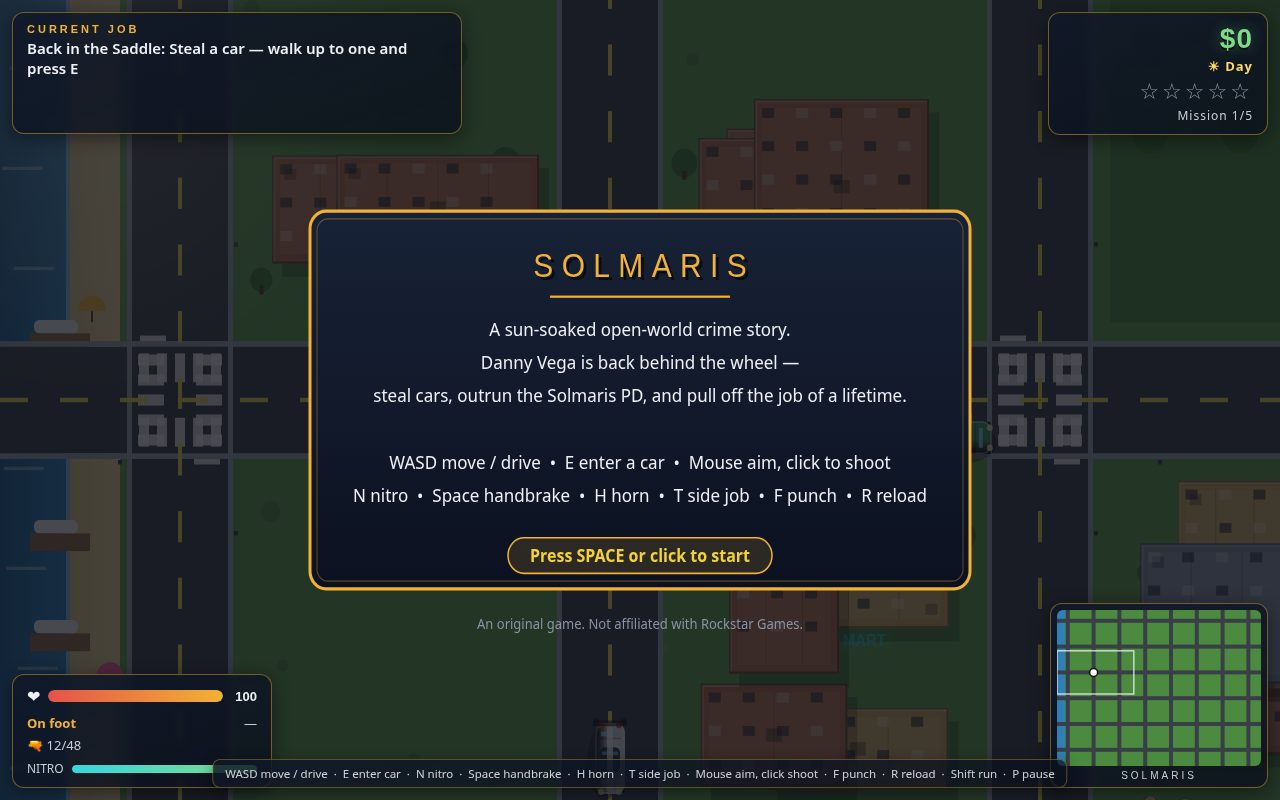
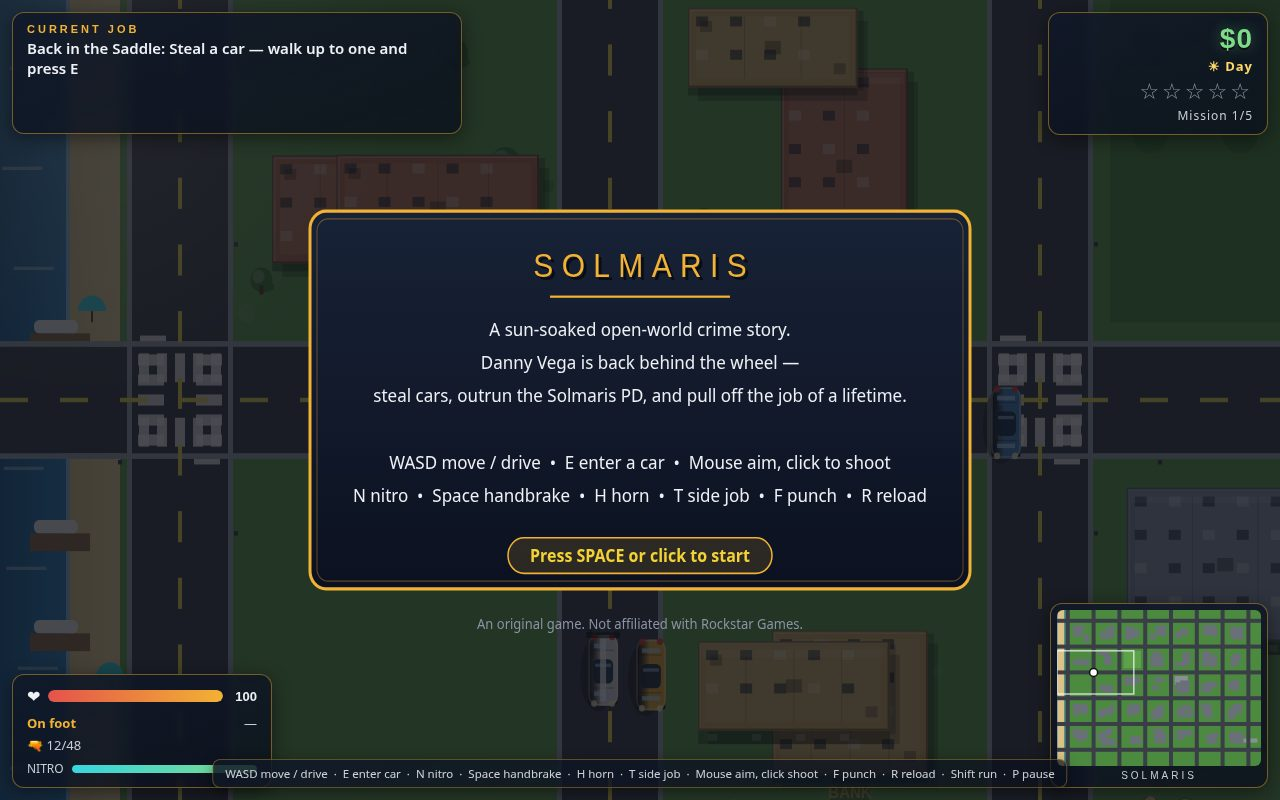
Solmaris v3: fix overlapping neon signs, pseudo-3D building walls, real minimap, sunset headlight beams, tree shadows

diff --git a/game/src/render.js b/game/src/render.js
@@ -172,12 +172,21 @@ export function createRenderer(canvas, hud) {
         c.fillRect(x, y - 2, 28, 4);
       }
     }
-    // Trees.
+    // Trees: a soft ground shadow, a shaded canopy, and a sunlit top-left
+    // arc, so they read as round bushes instead of flat green discs.
     for (const t of city.trees) {
       if (t.x < cam.x - 30 || t.x > cam.x + VIEW_W + 30 || t.y < cam.y - 30 || t.y > cam.y + VIEW_H + 30) continue;
+      c.fillStyle = 'rgba(0,0,0,0.25)';
+      c.beginPath();
+      c.ellipse(t.x + 3, t.y + t.r * 0.55, t.r * 0.9, t.r * 0.45, 0, 0, Math.PI * 2);
+      c.fill();
       c.fillStyle = night ? '#1e3a1a' : '#3f7a33';
       c.beginPath();
       c.arc(t.x, t.y, t.r, 0, Math.PI * 2);
+      c.fill();
+      c.fillStyle = night ? 'rgba(255,255,255,0.05)' : 'rgba(255,255,255,0.22)';
+      c.beginPath();
+      c.arc(t.x - t.r * 0.28, t.y - t.r * 0.28, t.r * 0.55, 0, Math.PI * 2);
       c.fill();
       c.fillStyle = '#5a3a22';
       c.fillRect(t.x - 2, t.y + t.r - 6, 4, 8);
@@ -189,6 +198,24 @@ export function createRenderer(canvas, hud) {
       if (b.x > cam.x + VIEW_W + 60 || b.x + b.w < cam.x - 60 || b.y > cam.y + VIEW_H + 60 || b.y + b.h < cam.y - 60) continue;
       c.fillStyle = `rgba(0,0,0,${sun.a})`;
       c.fillRect(b.x + sun.x, b.y + sun.y, b.w, b.h);
+      // v3 visual: a real wall face — the roof sits on a south wall and an
+      // east wall, so a block reads as a solid building with height instead
+      // of a flat card. Tall towers get a taller wall and lit windows on it.
+      const wallH = b.tall ? 12 : 7;
+      c.fillStyle = night ? 'rgba(8, 10, 16, 0.85)' : 'rgba(0,0,0,0.30)';
+      c.fillRect(b.x, b.y + b.h, b.w, wallH);
+      c.fillStyle = night ? 'rgba(8, 10, 16, 0.65)' : 'rgba(0,0,0,0.22)';
+      c.fillRect(b.x + b.w, b.y + 3, 6, b.h);
+      if (b.tall) {
+        const winN = Math.max(2, Math.floor(b.w / 44));
+        for (let i = 0; i < winN; i++) {
+          const litWin = ((i * 5 + Math.floor(b.lit * 97)) % 4) < 2;
+          c.fillStyle = night
+            ? (litWin ? 'rgba(255, 190, 90, 0.85)' : 'rgba(0,0,0,0.5)')
+            : 'rgba(255,255,255,0.18)';
+          c.fillRect(b.x + 10 + i * 44, b.y + b.h + 3, 9, 6);
+        }
+      }
       c.fillStyle = night ? '#3a3f47' : b.roof;
       c.fillRect(b.x, b.y, b.w, b.h);
       c.strokeStyle = 'rgba(0,0,0,0.35)';
@@ -239,16 +266,29 @@ export function createRenderer(canvas, hud) {
         c.fillRect(b.x + 4, b.y + 4, b.w - 8, 10);
       }
       // Neon sign on the street-facing edge, glowing at dusk and night.
+      // v3: it hangs below the wall face on a dark plate, so the letters
+      // stay readable against road and grass, and one sign in ten flickers
+      // after dark like a tired neon tube.
       if (b.sign) {
+        const flicker = night && b.detail > 0.9
+          ? 0.55 + 0.45 * Math.abs(Math.sin(state.time * 11 + b.x * 0.13))
+          : 1;
         const glow = (tod === 'night' || tod === 'sunset') ? 1 : 0.55;
+        const size = Math.min(15, b.w / (b.sign.text.length * 0.8));
+        const tw = b.sign.text.length * size * 0.42;
+        const cy = b.y + b.h + wallH + 13;
         c.save();
-        c.globalAlpha = glow;
+        c.globalAlpha = glow * flicker;
+        c.fillStyle = 'rgba(6, 10, 18, 0.55)';
+        c.beginPath();
+        c.roundRect(b.x + b.w / 2 - tw / 2 - 7, cy - size - 3, tw + 14, size + 8, 5);
+        c.fill();
         c.fillStyle = b.sign.color;
         c.shadowColor = b.sign.color;
         c.shadowBlur = 14;
-        c.font = `bold ${Math.min(15, b.w / (b.sign.text.length * 0.8))}px ` + FONT_DISPLAY;
+        c.font = `bold ${size}px ` + FONT_DISPLAY;
         c.textAlign = 'center';
-        c.fillText(b.sign.text, b.x + b.w / 2, b.y + b.h + 16);
+        c.fillText(b.sign.text, b.x + b.w / 2, cy);
         c.restore();
       }
     }
@@ -273,7 +313,7 @@ export function createRenderer(canvas, hud) {
     }
   }
 
-  function drawCar(c, car, night, time) {
+  function drawCar(c, car, night, time, tod) {
     // v2 visual: a patrol car's flashing light bar washes the street red/blue.
     if (car.carKind === 'police') {
       const red = Math.floor((time || 0) * 5) % 2 === 0;
@@ -375,10 +415,12 @@ export function createRenderer(canvas, hud) {
     c.arc(-CAR.length / 2 + 2, -CAR.width / 2 + 6, car.braking ? 4 : 3, 0, Math.PI * 2);
     c.arc(-CAR.length / 2 + 2, CAR.width / 2 - 6, car.braking ? 4 : 3, 0, Math.PI * 2);
     c.fill();
-    // Headlight beams at night: a gradient cone, not a flat triangle.
-    if (night) {
+    // Headlight beams: a gradient cone, not a flat triangle — full strength
+    // at night, and a shorter, dimmer cone at sunset when the sky is orange.
+    const beamA = night ? 0.40 : (tod === 'sunset' ? 0.20 : 0);
+    if (beamA > 0) {
       const beam = c.createLinearGradient(CAR.length / 2, 0, CAR.length / 2 + 110, 0);
-      beam.addColorStop(0, 'rgba(255, 240, 180, 0.40)');
+      beam.addColorStop(0, `rgba(255, 240, 180, ${beamA})`);
       beam.addColorStop(1, 'rgba(255, 240, 180, 0)');
       c.fillStyle = beam;
       c.beginPath();
@@ -756,6 +798,19 @@ export function createRenderer(canvas, hud) {
     m.fillRect(0, 0, w, h);
     m.fillStyle = state.night ? '#0f2f4a' : '#2f7fb8';
     m.fillRect(0, 0, 8, h);
+    // v3 visual: the minimap is a real map now — beach, park, plaza, runway
+    // and every building block, so it reads like the city at a glance.
+    m.fillStyle = state.night ? '#3a2f1a' : '#dcc288';
+    m.fillRect(8 * sx, 0, (state.city.beach.w - 8) * sx, h);
+    m.fillStyle = state.night ? '#23401c' : '#5da24a';
+    m.fillRect(state.city.park.x * sx, state.city.park.y * sy, state.city.park.w * sx, state.city.park.h * sy);
+    m.fillStyle = state.night ? '#2a2f38' : '#8a8f96';
+    m.fillRect(state.city.runway.x * sx, state.city.runway.y * sy, state.city.runway.w * sx, state.city.runway.h * sy);
+    m.fillRect(state.city.plaza.x * sx, state.city.plaza.y * sy, state.city.plaza.w * sx, state.city.plaza.h * sy);
+    m.fillStyle = state.night ? '#31363f' : '#6a7078';
+    for (const b of state.city.buildings) {
+      m.fillRect(b.x * sx, b.y * sy, Math.max(1.5, b.w * sx), Math.max(1.5, b.h * sy));
+    }
     m.fillStyle = '#3a3f47';
     for (const x of state.city.xs) m.fillRect(x * sx - 2, 0, 4, h);
     for (const y of state.city.ys) m.fillRect(0, y * sy - 2, w, 4);
@@ -916,8 +971,8 @@ export function createRenderer(canvas, hud) {
       drawSkidMarks(ctx, state);
       drawMarkers(ctx, state);
       drawPickups(ctx, state);
-      for (const car of state.trafficCars) drawCar(ctx, car, state.night, state.time);
-      for (const cop of state.police) drawCar(ctx, cop, state.night, state.time);
+      for (const car of state.trafficCars) drawCar(ctx, car, state.night, state.time, state.timeOfDay);
+      for (const cop of state.police) drawCar(ctx, cop, state.night, state.time, state.timeOfDay);
       for (const ped of state.peds) drawPed(ctx, ped, state.night);
       drawPlayer(ctx, state);
       drawTracers(ctx, state);

diff --git a/game/src/city.js b/game/src/city.js
@@ -58,13 +58,38 @@ export function buildCity(seed) {
           // v2 visual: a roof-detail seed (AC units, vents, parapet lines)
           // and, for a few big buildings, a neon sign for the street.
           detail: rng(),
-          sign: (w > 150 || tall) && rng() < 0.4 ? pick(rng, SIGNS) : null,
+          sign: (w > 150 || tall) && rng() < 0.3 ? pick(rng, SIGNS) : null,
         });
       }
       // A few trees on each block.
       const treeCount = 2 + Math.floor(rng() * 3);
       for (let t = 0; t < treeCount; t++) {
         trees.push({ x: bx0 + rng() * bw, y: by0 + rng() * bh, r: 9 + rng() * 7 });
+      }
+    }
+  }
+
+  // v3: neon signs must never collide — two neighbouring buildings in one
+  // block used to put PIZZA and 24H MART on top of each other in the night
+  // shot. Drop the later sign whenever two sign boxes would overlap on the
+  // same street line. The width estimate matches the renderer's font math
+  // (bold Arial Black, size capped at 15, ~0.42 em per glyph plus padding).
+  for (let i = 0; i < buildings.length; i++) {
+    const a = buildings[i];
+    if (!a.sign) continue;
+    const aSize = Math.min(15, a.w / (a.sign.text.length * 0.8));
+    const aHalf = (a.sign.text.length * aSize * 0.42) / 2 + 8;
+    const aY = a.y + a.h + (a.tall ? 12 : 7) + 13;
+    for (let j = i + 1; j < buildings.length; j++) {
+      const b = buildings[j];
+      if (!b.sign) continue;
+      const bSize = Math.min(15, b.w / (b.sign.text.length * 0.8));
+      const bHalf = (b.sign.text.length * bSize * 0.42) / 2 + 8;
+      const bY = b.y + b.h + (b.tall ? 12 : 7) + 13;
+      const cxA = a.x + a.w / 2;
+      const cxB = b.x + b.w / 2;
+      if (Math.abs(cxA - cxB) < aHalf + bHalf + 6 && Math.abs(aY - bY) < 22) {
+        b.sign = null;
       }
     }
   }

diff --git a/REPORT.md b/REPORT.md
@@ -4,6 +4,19 @@
 **完成时间：** 2026-11-21 15:40 CST
 **工作目录：** `/home/hatch/workspace/makefun/workers/lane7-gta6-b/`
 
+## v3 — 2026-11-21（本次更新，录制 01a1fd23-69d2-753c-8e3f-920e5b9c9869 下由本 agent 手写）
+
+视觉精致再往深推一轮，玩法不动：
+
+- **修 v2 留下的招牌重叠：** 招牌概率 0.4→0.3；`city.js` 生成后做一轮重叠守卫——按渲染端同款字体数学估算每块招牌的文字盒，同街线、横向相交的后一块招牌直接去掉。`node` 直跑 `buildCity` 验证 seed 1/2/3/7/42 全部零重叠；夜景重拍确认 PIZZA/24H MART 不再相撞。
+- **建筑立体感：** 每栋楼加南立面（高楼 12px、普通 7px）与东立面（6px），屋顶不再是平卡片；高楼立面夜晚有亮窗。招牌移到立面下方，垫一块半透明深色底板，字在任何地面上都可读；夜晚约 1/10 的招牌会像老霓虹灯管一样轻微闪烁。
+- **小地图变真地图：** 画出全部建筑块、公园、海滩、跑道与喷泉广场，不再只有路网。
+- **车灯：** 日落时也有光锥（夜晚 0.40、日落 0.20 透明度），2 号日落追逐截图的跑车与警车都有了光束。
+- **树：** 地面投影椭圆 + 树冠左上高光，圆灌木不再是扁圆盘。
+- **截图：** 4 张全部重拍（1280×800，93–114 KiB，零报错、零失败请求）；升级前对照存 `before-visual-v3/`（不进仓库）。
+- **验证：** `node --check` 全部 JS 通过；实机游玩（步行、射击 12→10 发、支线单接单、上车驾驶 Bison）零报错；`main.ts` 两次运行 dossier.json 字节一致（708,579 字节 < 1.5 MiB）；`grep` 确认 game/ 零外部请求。
+- **未动：** vendor/makefun-game.ts、LICENSE、玩法数值、存档键（仍为 `solmaris.save.v2`）。
+
 ## v2 — 2026-11-21（本次更新，录制 01a1fd23-69d2-753c-8e3f-920e5b9c9869 下由本 agent 手写）
 
 v1 的 5 任务、通缉、存档全部保留，v2 在画面、任务深度、手感三条线上加东西：
